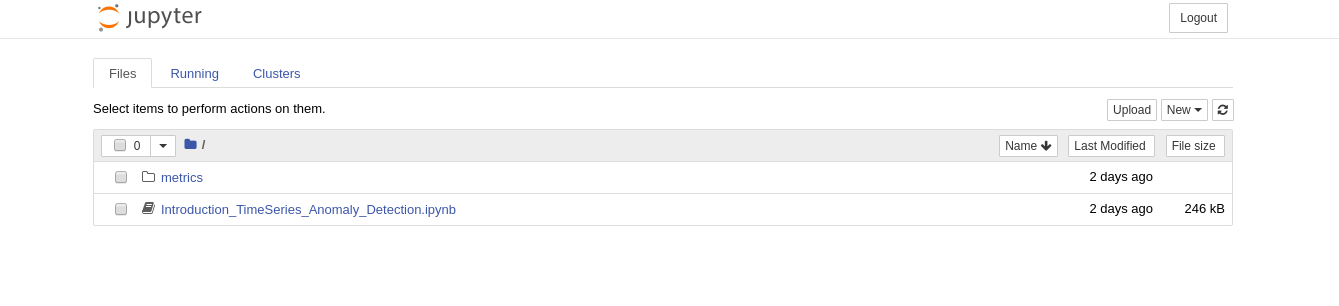
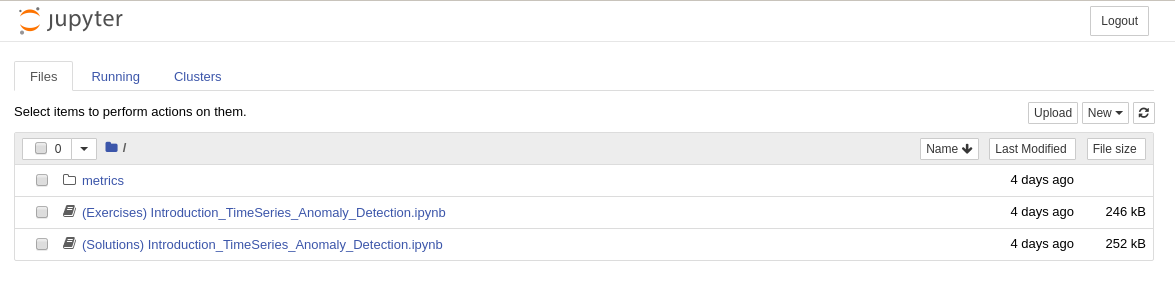
Update time series forecasting scenario instructions

diff --git a/ai-machine-learning/prometheus-timeseries-forecasting/02-loading-the-notebook-templates.md b/ai-machine-learning/prometheus-timeseries-forecasting/02-loading-the-notebook-templates.md
@@ -1,4 +1,4 @@
-Please wait for a few minutes while the environment loads.
+Please wait for a few minutes while the environment loads. (If you want to look at what's going on under the hood, you can go to Step 3 to access the OpenShift console and come back to this step to login to the Jupyter Notebook environment.)
 
 ### Accessing the Jupyter Notebook Environment
 * The jupyter environment with the workshop notebooks is available here: <br>
@@ -10,7 +10,9 @@ http://pad-workshop-myproject.[[HOST_SUBDOMAIN]]-80-[[KATACODA_HOST]].environmen
 
 * Once you login to the Jupyter environment, you will find the following:
   1. `metrics` folder: This contains sample Prometheus metric data sets which we will use in our notebook for training the time series forecasting (SARIMA) model.
-  2. `Introduction_TimeSeries_Anomaly_Detection.ipynb`: Notebook for exploring the sample metric data sets and performing time series forecasting for detecting anomalies.<br><br>
+  2. `(Exercises) Introduction_TimeSeries_Anomaly_Detection.ipynb`: In this notebook you will explore the sample metric data sets and perform time series forecasting for detecting anomalies.
+  3. `(Solutions) Introduction_TimeSeries_Anomaly_Detection.ipynb`: You will find the solutions to the exercises in this notebook. <br><br>
 
 ![Jupyter Notebook List](../../assets/ai-machine-learning/prometheus-timeseries-forecasting/02-jupyter-notebook-list.png)
 
+Now, spend some time going through the notebook(s) and try out the exercises for yourself to understand time series analysis better!

diff --git a/ai-machine-learning/prometheus-timeseries-forecasting/03-accessing-the-web-console.md b/ai-machine-learning/prometheus-timeseries-forecasting/03-accessing-the-web-console.md
@@ -1,6 +1,6 @@
 ### Accessing the OpenShift console:
-You don't need to access the OpenShift Console for this workshop. <br>
-If you want to look at what's going on under thehood, you can follow the instructions below:
+You don't need to access the OpenShift Console for this scenario. <br>
+If you want to look at what's going on under the hood, you can follow the instructions below:
 
 To access the OpenShift console:
 
@@ -18,3 +18,5 @@ Once you have logged in, you should be shown the list of projects you have acces
 In this project you should be able to see a Jupyter deployment. Once the pod is ready, you can login to the Jupyter environment.
 
 ![Web Console Project](../../assets/ai-machine-learning/prometheus-timeseries-forecasting/03-openshift-console-page.png)
+
+Go back to Step 2 if you want to continue playing with the notebooks, else you can proceed to exit this scenario. 
